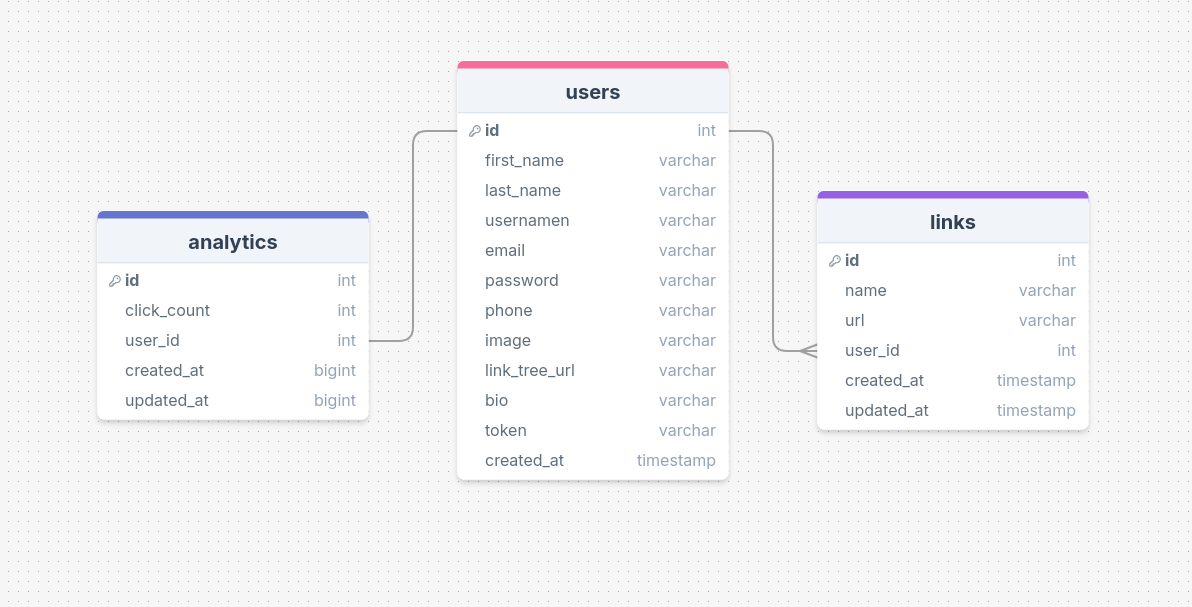
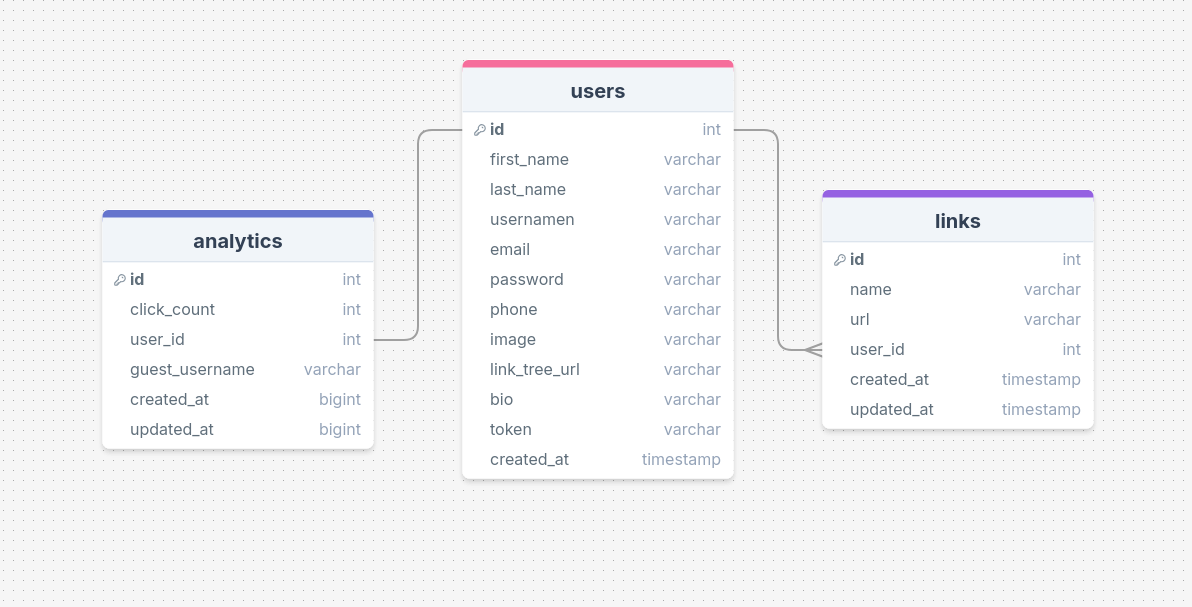
feat: add analytics controller

diff --git a/backend/controllers/analyticsController.go b/backend/controllers/analyticsController.go
@@ -1,3 +1,60 @@
 package controllers
 
+import (
+	"net/http"
+	"strconv"
 
+	model "github.com/codescalersinternships/Link-Tree-Dohaelsawy/backend/models"
+	"github.com/codescalersinternships/Link-Tree-Dohaelsawy/backend/utils"
+	"github.com/gin-gonic/gin"
+)
+
+func (ds *DBService) GetAnalytics(ctx *gin.Context) {
+
+	var analytics []model.Analytics
+
+	idString := ctx.Params.ByName("user_id")
+
+	user_id, err := strconv.Atoi(idString)
+	if err != nil {
+		utils.ErrRespondJSON(ctx, http.StatusInternalServerError, err)
+		return
+	}
+
+	err = ds.store.GetAllAnalyticsForUser(&analytics, user_id)
+	if err != nil {
+		utils.ErrRespondJSON(ctx, http.StatusInternalServerError, err)
+		return
+	}
+
+	utils.SuccessRespondJSON(ctx, http.StatusOK, analytics)
+}
+
+func (ds *DBService) CalculateAnalytics(ctx *gin.Context, guestUsername string, user_id int) {
+	// 1- if for the same user linktree the guest user name exist then the counter will increase
+	// 2- if for the same user linktree the gurst username is not exist then will add
+	// 3- if for the user that is not exist then return error
+
+	var analytics model.Analytics
+
+	if err := ds.store.GetAnalyticsForGuestUsername(&analytics, guestUsername, user_id); err != nil {
+
+		analytics = model.Analytics{
+			ClickCount:    1,
+			UserID:        user_id,
+			GuestUsername: guestUsername,
+		}
+
+		if err = ds.store.AddNewVisitor(&analytics); err != nil {
+			utils.ErrRespondJSON(ctx, http.StatusInternalServerError, err)
+			return
+		}
+
+	}
+	analytics.ClickCount += 1
+
+	if err := ds.store.UpdateAnalytics(&analytics, analytics.ID); err != nil {
+		utils.ErrRespondJSON(ctx, http.StatusInternalServerError, err)
+		return
+	}
+}

diff --git a/backend/controllers/linkController.go b/backend/controllers/linkController.go
@@ -122,19 +122,43 @@ func (ds *DBService) UpdateLink(ctx *gin.Context) {
 
 func (ds *DBService) GetLinks(ctx *gin.Context) {
 
+	var user model.User
+	username := ctx.Params.ByName("username")
+
+	if err := ds.store.GetUserUsername(&user,username); err != nil {
+		utils.ErrRespondJSON(ctx, http.StatusInternalServerError, err)
+		return
+	}
+
 	var links []model.Link
-
-	user_id, err := utils.ExtractTokenID(ctx, *ds.Config)
-	if err != nil {
+	if err := ds.store.GetAllLinksForUser(&links, user.ID); err != nil {
 		utils.ErrRespondJSON(ctx, http.StatusInternalServerError, err)
 		return
 	}
 
-	err = ds.store.GetAllLinksForUser(&links, user_id)
-	if err != nil {
-		utils.ErrRespondJSON(ctx, http.StatusInternalServerError, err)
-		return
-	}
+	getGuestUsername(ctx,ds,user.ID)
 
 	utils.SuccessRespondJSON(ctx, http.StatusOK, links)
+}
+
+
+func getGuestUsername(ctx *gin.Context,ds *DBService, user_id int) {
+
+	guest_id, err := utils.ExtractTokenID(ctx, *ds.Config)
+	if err != nil{
+		ds.CalculateAnalytics(ctx,"unknown",user_id)
+		return
+	}
+
+	if guest_id == user_id {
+		return
+	}
+
+	var guest model.User
+	if err := ds.store.GetUserID(&guest,guest_id); err != nil {
+		utils.ErrRespondJSON(ctx, http.StatusInternalServerError, err)
+		return
+	}
+
+	ds.CalculateAnalytics(ctx,guest.Username,user_id)
 }

diff --git a/backend/routers/analyticsRouter.go b/backend/routers/analyticsRouter.go
@@ -5,19 +5,15 @@ import (
 	"github.com/codescalersinternships/Link-Tree-Dohaelsawy/backend/database/repository"
 	"github.com/codescalersinternships/Link-Tree-Dohaelsawy/backend/middleware"
 	model "github.com/codescalersinternships/Link-Tree-Dohaelsawy/backend/models"
-
 	"github.com/gin-gonic/gin"
 )
 
-func LinkRouters(db repository.DbInstance, config model.Config, router *gin.Engine) {
+func AnalyticsRouters(db repository.DbInstance, config model.Config, router *gin.Engine) {
 
 	DBController := controllers.NewDBService(&db, config)
 
-	router.GET("/link_tree/:username", DBController.GetLinks) 
+	routeGroup := router.Group("/analytics")
 
-	routeGroup := router.Group("/link")
 	routeGroup.Use(middleware.AuthMiddleware(*DBController.Config))
-	routeGroup.POST("/create_link", DBController.CreateLink)
-	routeGroup.DELETE("/delete_link/:link_id", DBController.DeleteLink)
-	routeGroup.PUT("/update_link/:link_id", DBController.UpdateLink)
+	routeGroup.GET("/get_analytics/:user_id", DBController.GetAnalytics)
 }

diff --git a/backend/database/repository/analyticsQueries.go b/backend/database/repository/analyticsQueries.go
@@ -1,0 +1,31 @@
+package repository
+
+import model "github.com/codescalersinternships/Link-Tree-Dohaelsawy/backend/models"
+
+func (db *DbInstance) GetAllAnalyticsForUser(a *[]model.Analytics, user_id int) (err error) {
+	if err := db.DB.Where("user_id = ?", user_id).Find(a).Error; err != nil {
+		return err
+	}
+	return nil
+}
+
+func (db *DbInstance) AddNewVisitor(a *model.Analytics) (err error) {
+	if err = db.DB.Create(a).Error; err != nil {
+		return err
+	}
+	return nil
+}
+
+func (db *DbInstance) UpdateAnalytics(a *model.Analytics, id int) (err error) {
+	if err = db.DB.Save(a).Error; err != nil {
+		return err
+	}
+	return nil
+}
+
+func (db *DbInstance) GetAnalyticsForGuestUsername(a *model.Analytics, guestUsername string, userId int) (err error) {
+	if err := db.DB.Where(&model.Analytics{GuestUsername: guestUsername, UserID: userId}).First(a).Error; err != nil {
+		return err
+	}
+	return nil
+}

diff --git a/backend/database/repository/db.go b/backend/database/repository/db.go
@@ -23,6 +23,11 @@ type Store interface {
 	GetUserID(u *model.User, id int) (err error)
 	PutOneLink(l *model.Link, id int) (err error)
 	PutOneUser(u *model.User, id int) (err error)
+	GetAllAnalyticsForUser(a *[]model.Analytics, user_id int) (err error)
+	AddNewVisitor(a *model.Analytics) (err error)
+	UpdateAnalytics(a *model.Analytics, id int) (err error)
+	GetAnalyticsForGuestUsername(a *model.Analytics, guestUsername string, userId int) (err error)
+	GetUserUsername(u *model.User, username string) (err error)
 }
 
 type DbInstance struct {
@@ -51,7 +56,7 @@ func DbConnect() (*gorm.DB, error) {
 		return nil, err
 	}
 
-	err = db.AutoMigrate(&model.User{}, &model.Link{})
+	err = db.AutoMigrate(&model.User{}, &model.Link{}, &model.Analytics{})
 	if err != nil {
 		return nil, err
 	}

diff --git a/main.go b/main.go
@@ -10,6 +10,7 @@ import (
 )
 
 func main() {
+	
 	db, err := repository.DbConnect()
 	if err != nil {
 		log.Printf("Error: %s\n", err)
@@ -17,16 +18,19 @@ func main() {
 	}
 
 	router := gin.Default()
+
 	config, err := utils.NewConfigController()
 	if err != nil {
 		log.Printf("Error: %s\n", err)
 		return
 	}
+
 	dbInstance := repository.NewDbInstance(db)
 
 	route.AccountRouters(dbInstance, config, router)
 	route.LinkRouters(dbInstance, config, router)
 	route.AuthRouters(dbInstance, config, router)
+	route.AnalyticsRouters(dbInstance, config, router)
 
 	router.Run()
 }

diff --git a/backend/database/repository/userQueries.go b/backend/database/repository/userQueries.go
@@ -18,6 +18,13 @@ func (db *DbInstance) GetUserEmail(u *model.User, email string) (err error) {
 	return nil
 }
 
+func (db *DbInstance) GetUserUsername(u *model.User, username string) (err error) {
+	if err := db.DB.Where("username = ?", username).First(u).Error; err != nil {
+		return err
+	}
+	return nil
+}
+
 func (db *DbInstance) AddNewUser(u *model.User) (err error) {
 	if err = db.DB.Create(u).Error; err != nil {
 		return err

diff --git a/backend/models/analytics.go b/backend/models/analytics.go
@@ -6,6 +6,7 @@ type Analytics struct {
 	ID         int       `json:"id" gorm:"unique;primaryKey;autoIncrement"`
 	ClickCount int       `json:"click_count"`
 	UserID     int       `json:"user_id" gorm:"constraint:OnUpdate:CASCADE,OnDelete:CASCADE"`
+	GuestUsername string `json:"guest_username"`
 	CreatedAt  time.Time `json:"created_at"`
 	UpdatedAt  time.Time `json:"updated_at"`
 }

diff --git a/backend/database/repository/linkQueries.go b/backend/database/repository/linkQueries.go
@@ -1,8 +1,6 @@
 package repository
 
 import (
-	"fmt"
-
 	model "github.com/codescalersinternships/Link-Tree-Dohaelsawy/backend/models"
 )
 
@@ -28,7 +26,6 @@ func (db *DbInstance) AddNewLink(l *model.Link) (err error) {
 }
 
 func (db *DbInstance) PutOneLink(l *model.Link, id int) (err error) {
-	fmt.Println(l)
 	if err = db.DB.Save(l).Error; err != nil {
 		return err
 	}

diff --git a/backend/controllers/accountCotroller.go b/backend/controllers/accountCotroller.go
@@ -120,7 +120,7 @@ func (ds *DBService) CreateLinkTreeUrl(ctx *gin.Context) {
 		return
 	}
 
-	account.LinkTreeURL = utils.GenerateLinkTreeUrl(account.Username, config.BaseUrl)
+	account.LinkTreeURL = utils.GenerateLinkTreeUrl(config.BaseUrl, config.LinkTreePath, account.Username)
 
 	err = ds.store.PutOneUser(&account, account.ID)
 	if err != nil {

diff --git a/backend/utils/urls.go b/backend/utils/urls.go
@@ -4,6 +4,6 @@ import (
 	"fmt"
 )
 
-func GenerateLinkTreeUrl(username string, baseURL string) string {
-	return fmt.Sprintf("%s/%s", baseURL, username)
+func GenerateLinkTreeUrl(baseURL string, linkTreePath string,username string) string {
+	return fmt.Sprintf("%s/%s/%s", baseURL,linkTreePath, username)
 }

diff --git a/backend/utils/initConfig.go b/backend/utils/initConfig.go
@@ -25,5 +25,6 @@ func NewConfigController() (model.Config, error) {
 		TokenHourLifeTime: os.Getenv("TOKEN_HOUR_LIFESPAN"),
 		BaseUrl:           os.Getenv("BASE_URL"),
 		UserImagePath:     os.Getenv("USERS_IMAGE_SAVE_PATH"),
+		LinkTreePath:      os.Getenv("LINK_TREE_URL"),
 	}, nil
 }
